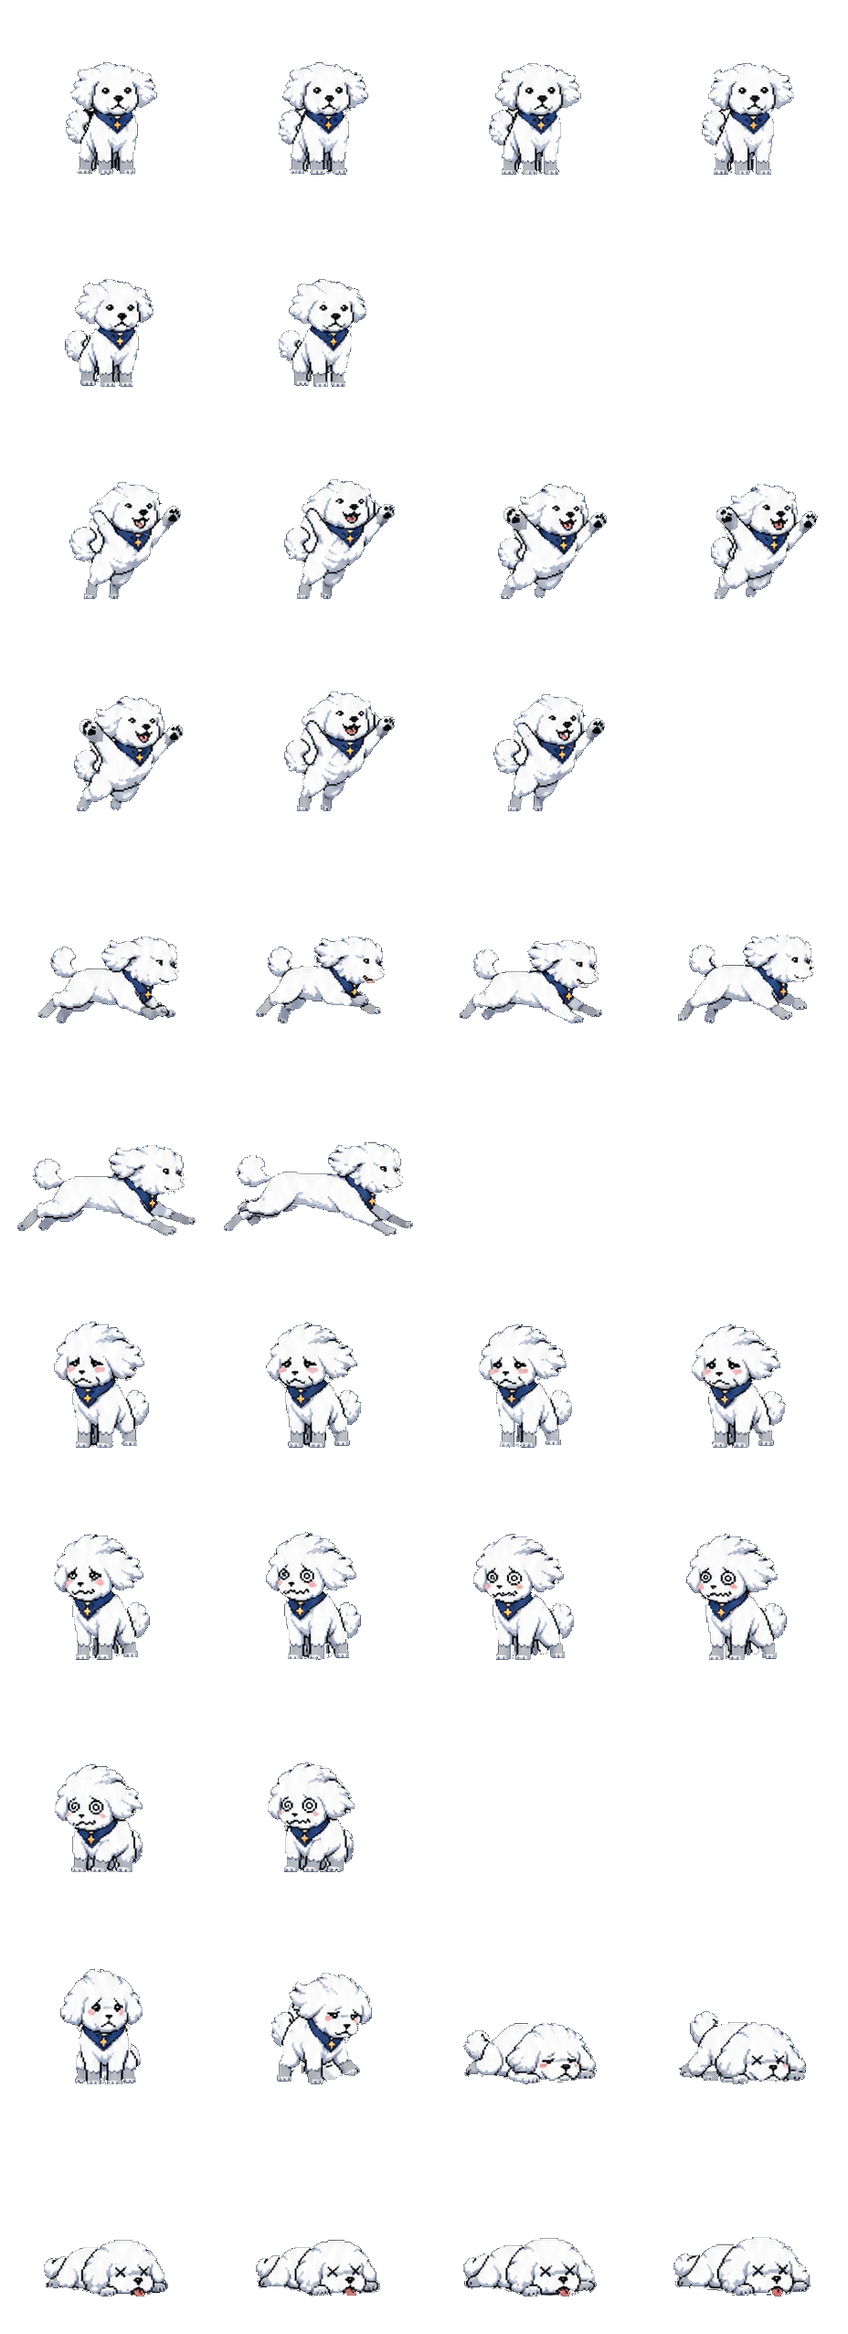
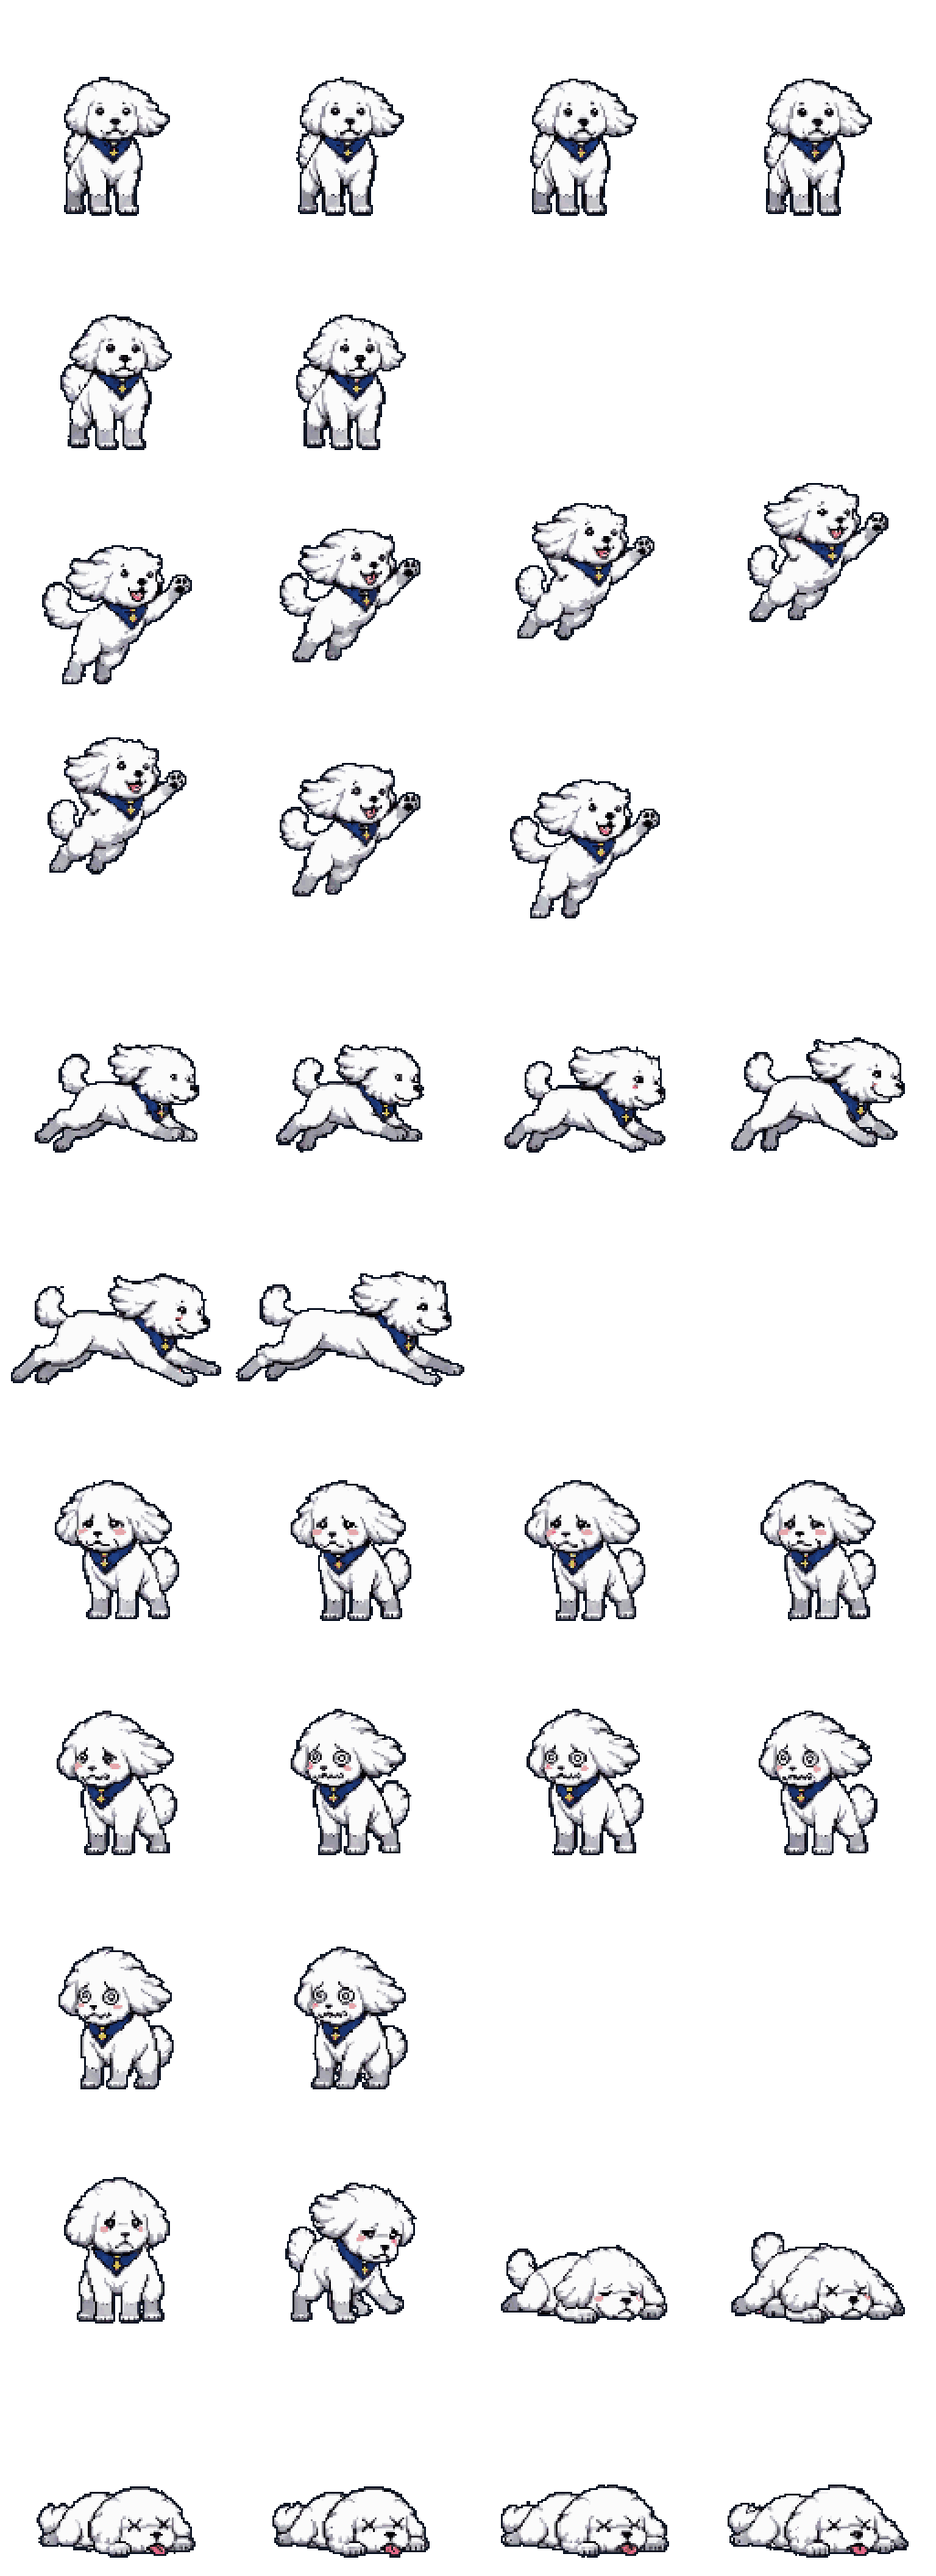
animations

diff --git a/mobile/src/components/petSprites.ts b/mobile/src/components/petSprites.ts
@@ -98,76 +98,80 @@ export interface PetSheet {
 // ---------------------------------------------------------------------------
 // Bichon
 //
-// Each companion is grouped with its evolutions: shared frame map first, then
-// the evolved sheets, then the base sheet that lists them. That order is load
-// bearing — PET_SHEETS is built at module evaluation, so a base sheet cannot
-// name an evolution declared below it.
+// Each companion is grouped with its evolutions: the evolved sheets first, then
+// the base sheet that lists them. That order is load bearing — PET_SHEETS is
+// built at module evaluation, so a base sheet cannot name an evolution declared
+// below it. Every sheet carries its own frame map, so a form can be animated
+// differently from the one it grew out of.
 // ---------------------------------------------------------------------------
-
-/**
- * The bichon's frame mapping, shared by its base and evolved sheets.
- *
- * The runner sheet was drawn to this exact layout — same eleven bands, same
- * frames per band, same cells left empty ([1,2], [1,3], [3,3], [5,2], [5,3],
- * [8,2], [8,3]) — so one map serves both. Holding it once means evolving cannot
- * silently change which pose an animation plays.
- */
-const BICHON_ANIMATIONS: Record<PetAnimation, readonly Frame[]> = {
-  idle: [[0, 0], [0, 1], [0, 2], [0, 3], [1, 0], [1, 1]],
-  cheer: [[2, 0], [2, 1], [2, 2], [2, 3], [3, 0], [3, 1], [3, 2]],
-  move: [[4, 0], [4, 1], [4, 2], [4, 3], [5, 0], [5, 1]],
-  // The one frame on this sheet that reads as peaceful out of context: lying
-  // flat, face down, eyes closed. It is the third beat of the collapse, but
-  // alone it is a dog having a lie-down. Single frame on purpose — PetAvatar
-  // skips the frame timer under two frames and its bob keeps the pet alive.
-  rest: [[9, 2]],
-  // Queasy (blush, wavy mouth) shading into fully dizzy (swirl/X eyes).
-  unwell: [
-    [6, 0], [6, 1], [6, 2], [6, 3],
-    [7, 0], [7, 1], [7, 2], [7, 3],
-    [8, 0], [8, 1],
-  ],
-  // Just the standing-sad beats; the collapse belongs to `faint`.
-  sad: [[9, 0], [9, 1]],
-  // Wobble → collapse → down for good. Row 10 is four frames of lying still.
-  faint: [[9, 1], [9, 2], [9, 3], [10, 0], [10, 1], [10, 2], [10, 3]],
-};
 
 /**
  * The bichon's runner evolution. Leaner, groomed back, navy bandana and grey
  * socks — the same gear language as the cat's runner, so the builds read as a
  * set rather than as two unrelated redesigns.
  *
- * Rebuilt from an export that had no alpha at all: the art sat on solid black,
- * so the background was keyed out by flood-filling inward from the borders at a
- * threshold below the dog's own outlines (0-2 for the ground, 16-31 for the
- * linework), then the one-pixel blend ring left against the black was stripped.
+ * It was drawn to the base sheet's layout — same eleven bands, same frames per
+ * band, same cells left empty — and arrived square on the grid with real alpha
+ * and no fringe, so none of it had to be re-laid-out.
  *
- * Its bands also did not sit on the base sheet's grid — the jump is four frames
- * where the base has seven, which pushed every later band up a row — so each
- * frame was re-seated cell for cell onto the base layout, feet-anchored so a
- * swinging tail cannot shove the body sideways. The jump ping-pongs (0 1 2 3 2
- * 1 0) to fill row 3, giving a hop up and back down rather than three blank
- * cells. That is what lets both forms share one frame map.
+ * Its frame map is its own rather than shared with the base, so the evolved form
+ * can be animated differently: the two sheets happen to agree cell for cell, but
+ * nothing here depends on that, and editing one will not disturb the other.
  *
- * Cells are 232px, not the base sheet's 128. Cell size is free — SpriteFrame
- * derives everything from `size / CELL` — and going larger than the 216px adult
- * stage keeps every stage downscaling. Upscaling is what tore the outlines on the
- * previous export: this is hard-edged pixel art, and a 1.156x stretch put some
- * blocks on two screen pixels and their neighbours on three.
+ * The one change made to the art was scale. It is hard-edged pixel art (48
+ * colours) where the base bichon is a soft ~1,800-colour render, and at 128px
+ * cells the app's 1.156x upscale to the baby stage put some blocks on two screen
+ * pixels and their neighbours on three, which tore the outlines. Doubled to 256px
+ * cells with nearest-neighbour — lossless, still 48 colours — which puts every
+ * stage in the downscaling regime the cat runner already uses.
  */
 const BICHON_RUNNER: PetSheet = {
   name: 'bichon',
   label: 'Bichon · Runner',
   source: require('../../assets/pet/bichonRunner.png'),
-  animations: BICHON_ANIMATIONS,
+  animations: {
+    idle: [[0, 0], [0, 1], [0,2]],
+    cheer: [[2, 0], [2, 1], [2, 2], [2, 3], [3, 0], [3, 1], [3, 2]],
+    move: [[4, 0], [4, 1], [4, 2], [4, 3], [5, 0]],
+    // Lying flat, face down, eyes closed — the one frame that reads as peaceful
+    // out of context. Single frame on purpose: PetAvatar skips the frame timer
+    // under two frames and its bob keeps the pet alive.
+    rest: [[9, 2]],
+    // The dizzy beats only. The base bichon spends rows 6-8 shading queasy into
+    // dizzy across ten frames; this drops that build-up and the row 7 opener,
+    // leaving the three cells where the spiral eyes are fully drawn.
+    unwell: [[7, 1], [7, 2], [7, 3]],
+    // Just the standing-sad beats; the collapse belongs to `faint`.
+    sad: [[6, 0],[6,1]],
+    // Wobble → collapse → down for good. Row 10 is four frames of lying still.
+    faint: [[9, 1], [9, 2], [9, 3], [10, 0], [10, 1], [10, 2], [10, 3]],
+  },
 };
 
 const BICHON: PetSheet = {
   name: 'bichon',
   label: 'Bichon',
   source: require('../../assets/pet/bichon.png'),
-  animations: BICHON_ANIMATIONS,
+  animations: {
+    idle: [[0, 0], [0, 1], [0, 2], [0, 3], [1, 0], [1, 1]],
+    cheer: [[2, 0], [2, 1], [2, 2], [2, 3], [3, 0], [3, 1], [3, 2]],
+    move: [[4, 0], [4, 1], [4, 2], [4, 3], [5, 0], [5, 1]],
+    // The one frame on this sheet that reads as peaceful out of context: lying
+    // flat, face down, eyes closed. It is the third beat of the collapse, but
+    // alone it is a dog having a lie-down. Single frame on purpose — PetAvatar
+    // skips the frame timer under two frames and its bob keeps the pet alive.
+    rest: [[9, 2]],
+    // Queasy (blush, wavy mouth) shading into fully dizzy (swirl/X eyes).
+    unwell: [
+      [6, 0], [6, 1], [6, 2], [6, 3],
+    [7, 0], [7, 1], [7, 2], [7, 3],
+    [8, 0], [8, 1],
+    ],
+    // Just the standing-sad beats; the collapse belongs to `faint`.
+    sad: [[9,0], [9,1]],
+    // Wobble → collapse → down for good. Row 10 is four frames of lying still.
+    faint: [[9, 1], [9, 2], [9, 3], [10, 0], [10, 1], [10, 2], [10, 3]],
+  },
   evolutions: { runner: BICHON_RUNNER },
 };
 
@@ -238,7 +242,7 @@ const ORANGE_CAT_RUNNER: PetSheet = {
     // upset, stumbling, down, then out cold with X eyes — which is the frame
     // HOLDS_LAST_FRAME parks on. Row 6 only ever showed a tired lie-down, so
     // dying and exhausted would otherwise have looked identical.
-    faint: [[10, 0], [10, 1], [10, 2], [10, 3]],
+    faint: [[10, 0], [10, 2], [10, 3]],
   },
   selfDrawn: ['foggy'],
   frameMs: { idle: 200, unwell: 340 },

diff --git a/mobile/src/__tests__/screens.test.tsx b/mobile/src/__tests__/screens.test.tsx
@@ -812,15 +812,31 @@ describe('pet sprite', () => {
     expect(sheetForPet(baby).label).toBe('Bichon');
   });
 
-  it('draws the bichon runner from exactly the same frames as its base form', () => {
-    // The runner sheet was drawn to the base sheet's layout, so evolving must
-    // change the art and nothing else. Comparing the maps catches a divergence
-    // that the per-frame bounds check above would not.
+  it('gives the bichon runner its own art and its own frame map', () => {
+    // The two are free to animate differently, so the maps are deliberately not
+    // compared for equality — only that the evolution is a separate sheet with a
+    // frame map of its own, rather than an alias of the base's.
     const { sheetForPet } = require('../components/petSprites');
     const base = sheetForPet({ id: 'p', breed: 'bichon', level: 5 });
     const runner = sheetForPet({ id: 'p', breed: 'bichon', level: 12, endurance: 80, strength: 10 });
     expect(runner.source).not.toBe(base.source);
-    expect(runner.animations).toEqual(base.animations);
+    expect(runner.animations).not.toBe(base.animations);
+  });
+
+  it('defines every animation on every sheet, evolutions included', () => {
+    // Now that each sheet carries its own map, a form can lose an animation
+    // without anything else noticing until the pet renders nothing in that state.
+    const animations = ['idle', 'cheer', 'move', 'rest', 'unwell', 'sad', 'faint'];
+    const everySheet = PET_SHEETS.flatMap((sheet: any) => [
+      sheet,
+      ...Object.values(sheet.evolutions ?? {}),
+    ]);
+    for (const sheet of everySheet as any[]) {
+      for (const name of animations) {
+        expect(Array.isArray(sheet.animations[name])).toBe(true);
+        expect(sheet.animations[name].length).toBeGreaterThan(0);
+      }
+    }
   });
 
   it('has no evolution for breeds without evolved art, however trained', () => {
